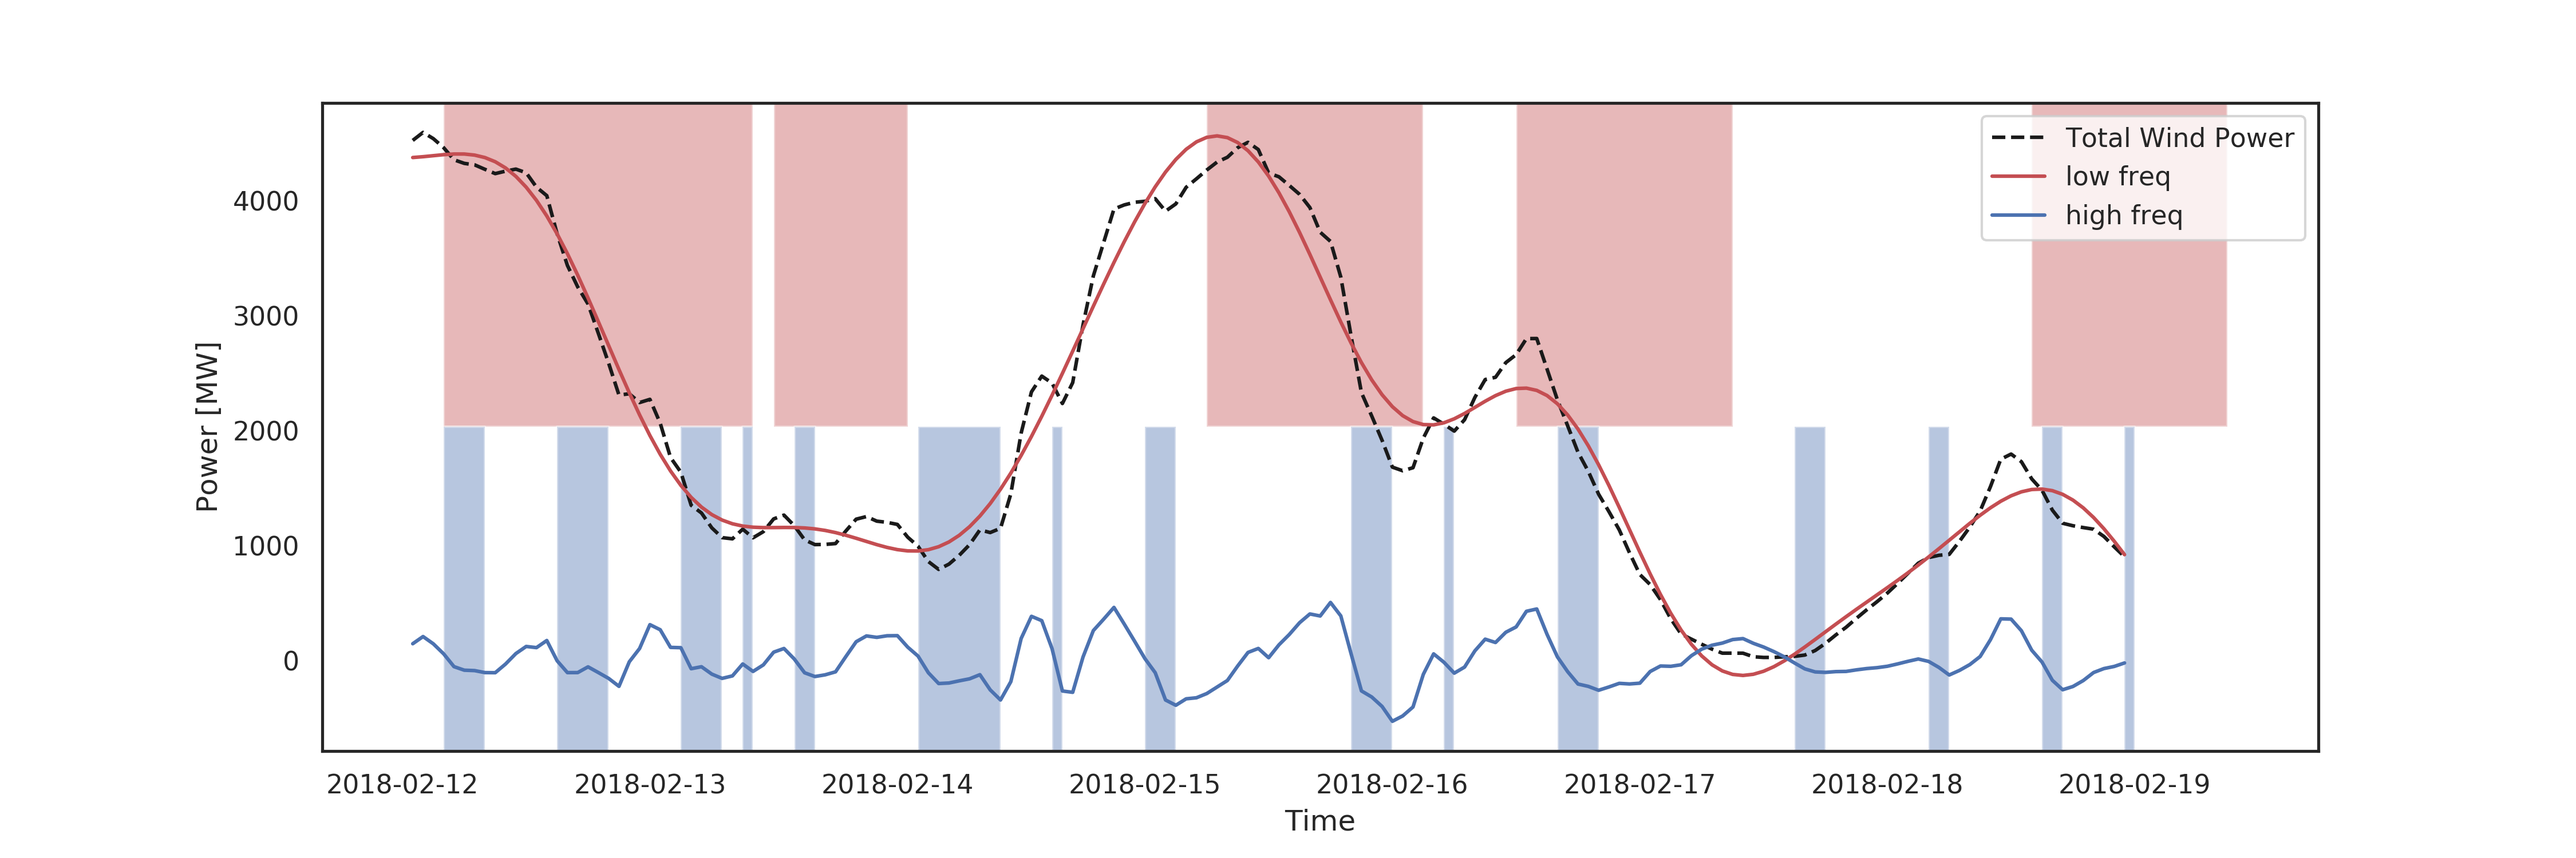
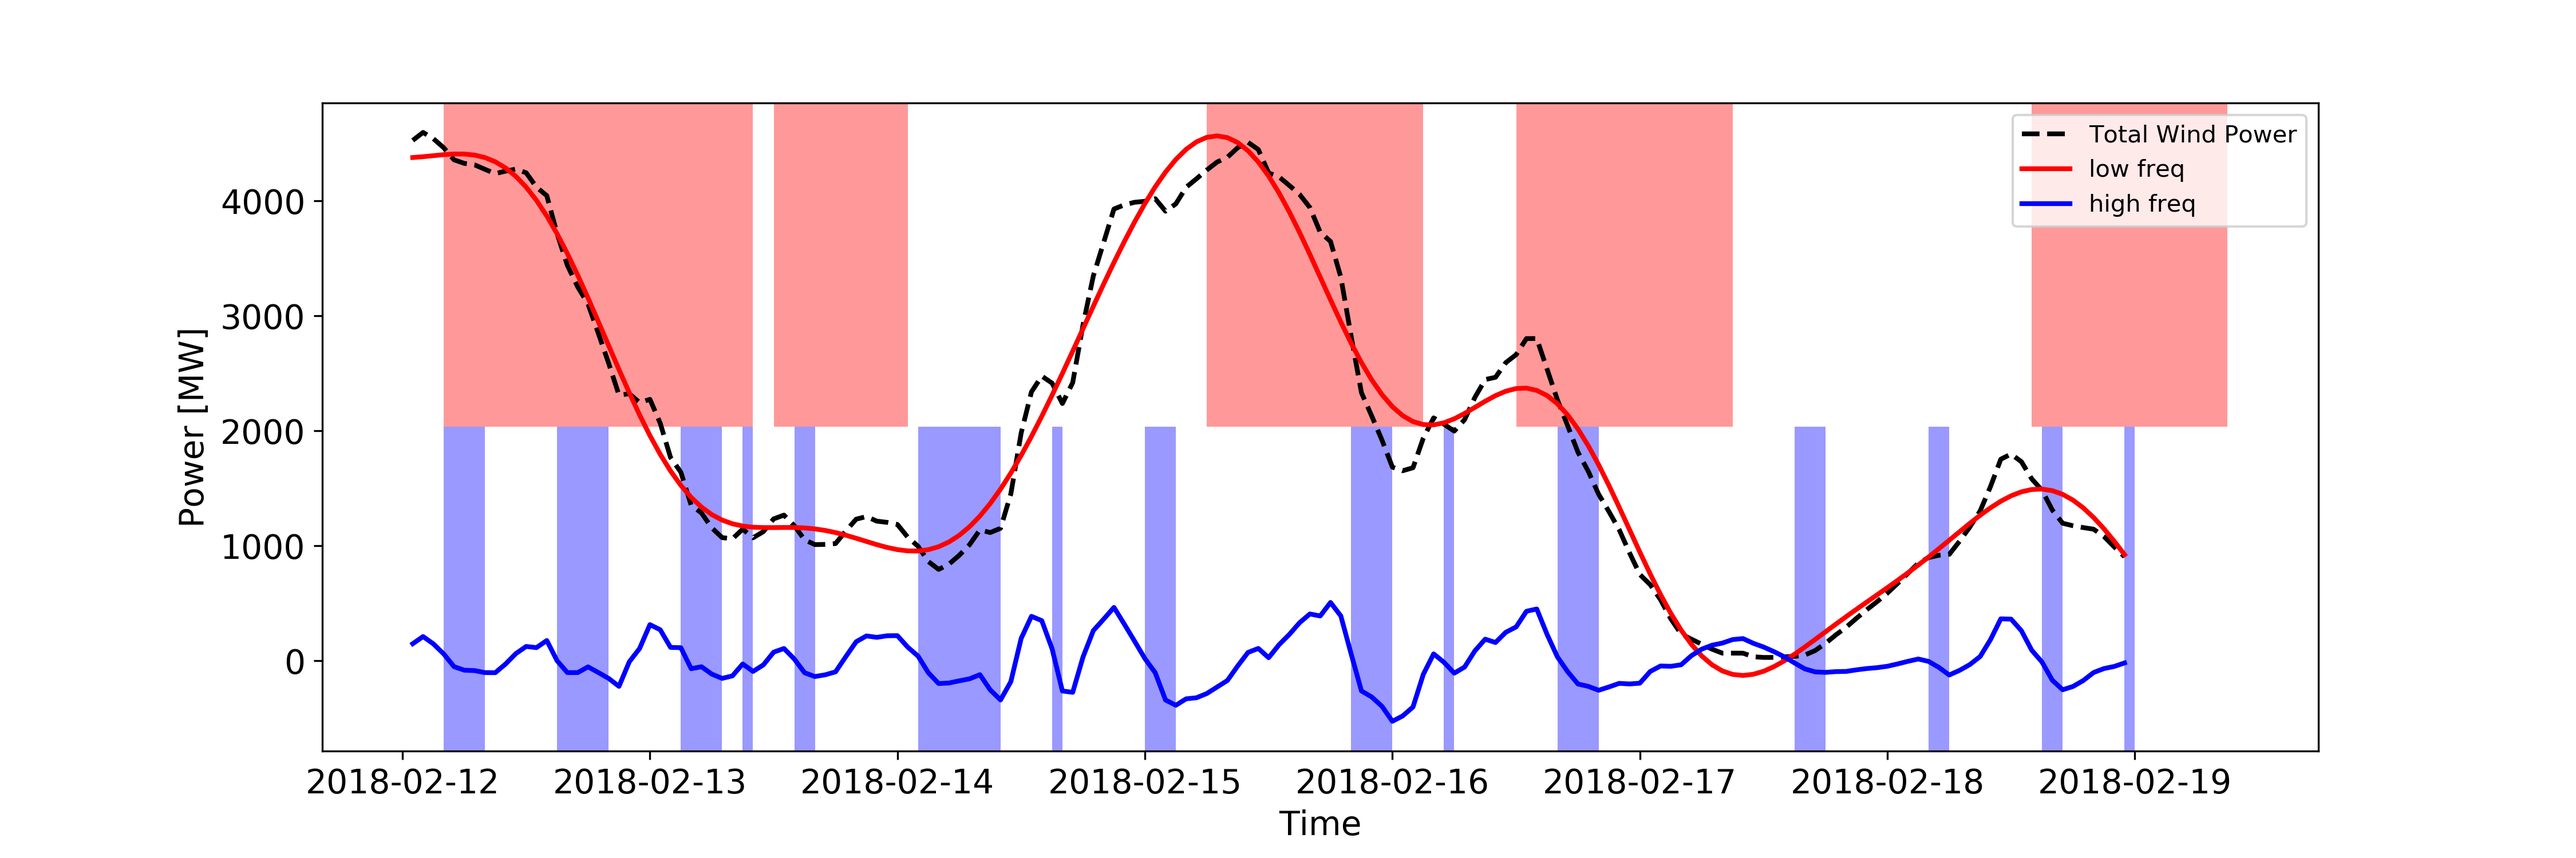
wind power dips

diff --git a/research/renew.md b/research/renew.md
@@ -24,7 +24,8 @@ As a step towards reaching that goal, the Danish Parliament agreed in 2012 on a 
 We are well on our way, with [wind turbines delivering power equivalent to 43.6% of Denmark’s electricity consumption in 2017](https://cleantechnica.com/2018/01/06/44-wind-denmark-smashed-already-huge-wind-energy-records-2017/). 
 Since the installation of the first wind turbines in Denmark in the 70's, the total capacity of installed wind turbines has been increasing to almost 6000 MW:
 ![Increase in total capacity of installed wind turbines](capacity.png)
-<center>Increase in total capacity of installed wind turbines, made with data from [https://ens.dk/].</center>
+<center>Increase in total capacity of installed wind turbines, made with data from [https://ens.dk/](https://ens.dk/).</center>
+<br>
 
 Especially the Western regions of Denmark (DK1) can produce a lot of wind power, due to strong winds reaching Denmark from the Atlantic ocean. 
 If all those wind turbines were operating at their maximum capacity at the same time, it would be enough to support roughly 8 million homes, if we adopt a relatively high annual energy consumption of [6000 kWh per year per household](https://www.ovoenergy.com/guides/energy-guides/how-much-electricity-does-a-home-use.html). 
@@ -42,7 +43,10 @@ I work in a group at DTU that searched for ways to reshape and store wind power 
 For that work, I am involved in the EPIMES project: [Enhancing wind Power Integration through optimal use of cross-sectoral flexibility in an integrated Multi-Energy System](http://www.dtu.dk/english/news/nyhed?id=1e387552-3d06-4f2c-ab2b-f1b602e8e27a), a project which is a collaboration between DTU CEE and Chinese partners, including Tsinghua University in Beijing. 
 On the Danish side, much work has gone into studying the flexibility options in a normal residential house, where energy can be stored as heat and smart planning using Model Predictive Control, can ensure that heating takes place mostly at times with low electricity prices ([see a recent paper on this here](http://orbit.dtu.dk/files/139062795/WJET_2017101016173894.pdf)). 
 
+My work so far has been to analyze wind power production time series, with the purpose of identifying fluctuations and converting them to flexibility demands on responsive loads, such as residential houses with smart controls. 
+A great tool for the analysis of a fluctuating signal, is Fourier analysis which I have exploited in order to separate low frequency fluctuations from high frequency ones. Below is an example for a week in 2018, where I have identified dips in national wind power production on different timescales:
 
 ![Dips in wind power production in Denmark.](dips_DK.png)
-<center>Identifying dips in wind power production on different time scales, with longer dips indicated with red-shaded areas and shorter dips indicated with blue-shaded areas. Made with data from [https://www.energidataservice.dk/].</center>
+<center>Identifying dips in wind power production on different time scales, with longer dips indicated with red-shaded areas and shorter dips indicated with blue-shaded areas. Made with data from [https://www.energidataservice.dk/](https://www.energidataservice.dk/).</center>
+<br>
 
